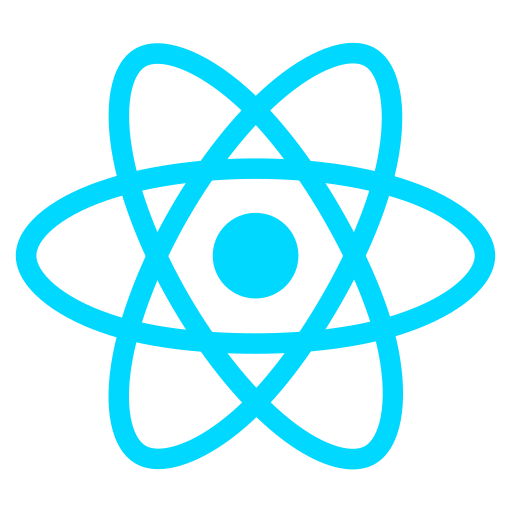
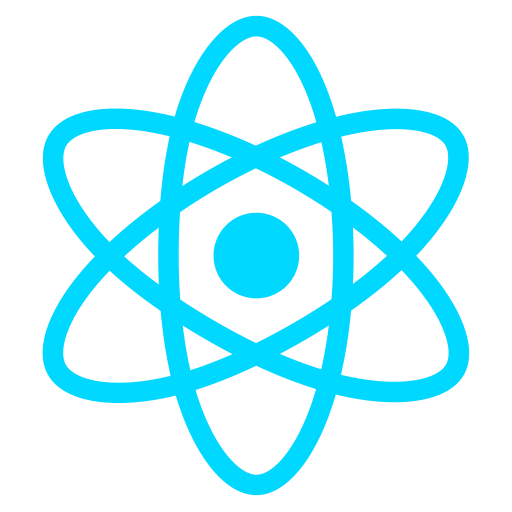
update images & toolStack list (react & redux)

diff --git a/index.html b/index.html
@@ -39,7 +39,7 @@
                 <div class="profile card_light _color-white ul-card">
                         <h2 class="card__title _color-white card-title_light _transform-font">Личные качества</h2>
                     <ul class="ul_disc ">
-                        <li class="_transform-font li-font">Сильные аналитические и навыки решения проблем</li>
+                        <li class="_transform-font li-font">Упорство в решении проблем</li>
                         <li class="_transform-font li-font">Отличные коммуникативные и межличностные навыки</li>
                         <li class="_transform-font li-font">Способность быстро учиться и адаптироваться к новым технологиям</li>
                         <li class="_transform-font li-font">Страсть к созданию высококачественного программного обеспечения</li>
@@ -55,7 +55,9 @@
                 <h2 class="card__title _color-white _background-gray _transform-font">Профиль</h2>
                 <div class="card-title__line _background-gray"></div>
                 </div>
-                <p class="paragraph _transform-font">Мотивированный и целеустремленный разработчик с глубоким пониманием полного стека JavaScript. Увлечен созданием интерактивных и масштабируемых веб-приложений с использованием современных технологий. Ищу возможность применить свои навыки и внести вклад в команду разработчиков.</p>
+                <p class="paragraph _transform-font">Мотивированный и целеустремленный разработчик с
+<!--                    глубоким пониманием полного стека -->
+                    хорошим пониманием JavaScript. Увлечен созданием интерактивных и масштабируемых веб-приложений с использованием современных технологий. Ищу возможность применить свои навыки и внести вклад в команду разработчиков.</p>
             </div>
         </section>
         <section class="personal">
@@ -87,7 +89,7 @@
                         <h4 class="_transform-font">JS</h4>
                         <svg class="progress-bar" width="100px" height="100px" viewBox="0 0 100 100">
                             <circle cx="50" cy="50" r="40" stroke-width="4"/>
-                            <circle cx="50" cy="50" r="45" stroke="#444" stroke-width="4" fill="none" stroke-dasharray="283 283" stroke-dashoffset="calc(283 - (283 * .75))" />
+                            <circle cx="50" cy="50" r="45" stroke="#444" stroke-width="4" fill="none" stroke-dasharray="283 283" stroke-dashoffset="calc(283 - (293 * .75))" />
                             <image href="./imgs/JS-logo.png" x="35" y="35" width="30px" height="30px" />
                         </svg>
                     </li>
@@ -120,12 +122,17 @@
                         <h4 class="_transform-font">React</h4>
                         <svg class="progress-bar" width="100px" height="100px" viewBox="0 0 100 100">
                             <circle cx="50" cy="50" r="40" stroke-width="4"/>
-                            <circle cx="50" cy="50" r="45" stroke="#444" stroke-width="4" fill="none" stroke-dasharray="283 283" stroke-dashoffset="calc(283 - (180 * .9))" />
+                            <circle cx="50" cy="50" r="45" stroke="#444" stroke-width="4" fill="none" stroke-dasharray="283 283" stroke-dashoffset="calc(283 - (200 * .9))" />
                             <image href="./imgs/type-script.png" x="35" y="35" width="30px" height="30px" />
                         </svg>
                     </li>
                     <li class="toolstack__item">
-                        <h4 class="_transform-font">(Добавить)</h4>
+                        <h4 class="_transform-font">Redux</h4>
+                        <svg class="progress-bar" width="100px" height="100px" viewBox="0 0 100 100">
+                            <circle cx="50" cy="50" r="40" stroke-width="4"/>
+                            <circle cx="50" cy="50" r="45" stroke="#444" stroke-width="4" fill="none" stroke-dasharray="283 283" stroke-dashoffset="calc(283 - (180 * .9))" />
+                            <image href="./imgs/redux.png" x="35" y="35" width="30px" height="30px" />
+                        </svg>
                     </li>
                 </ul>
             </div>
